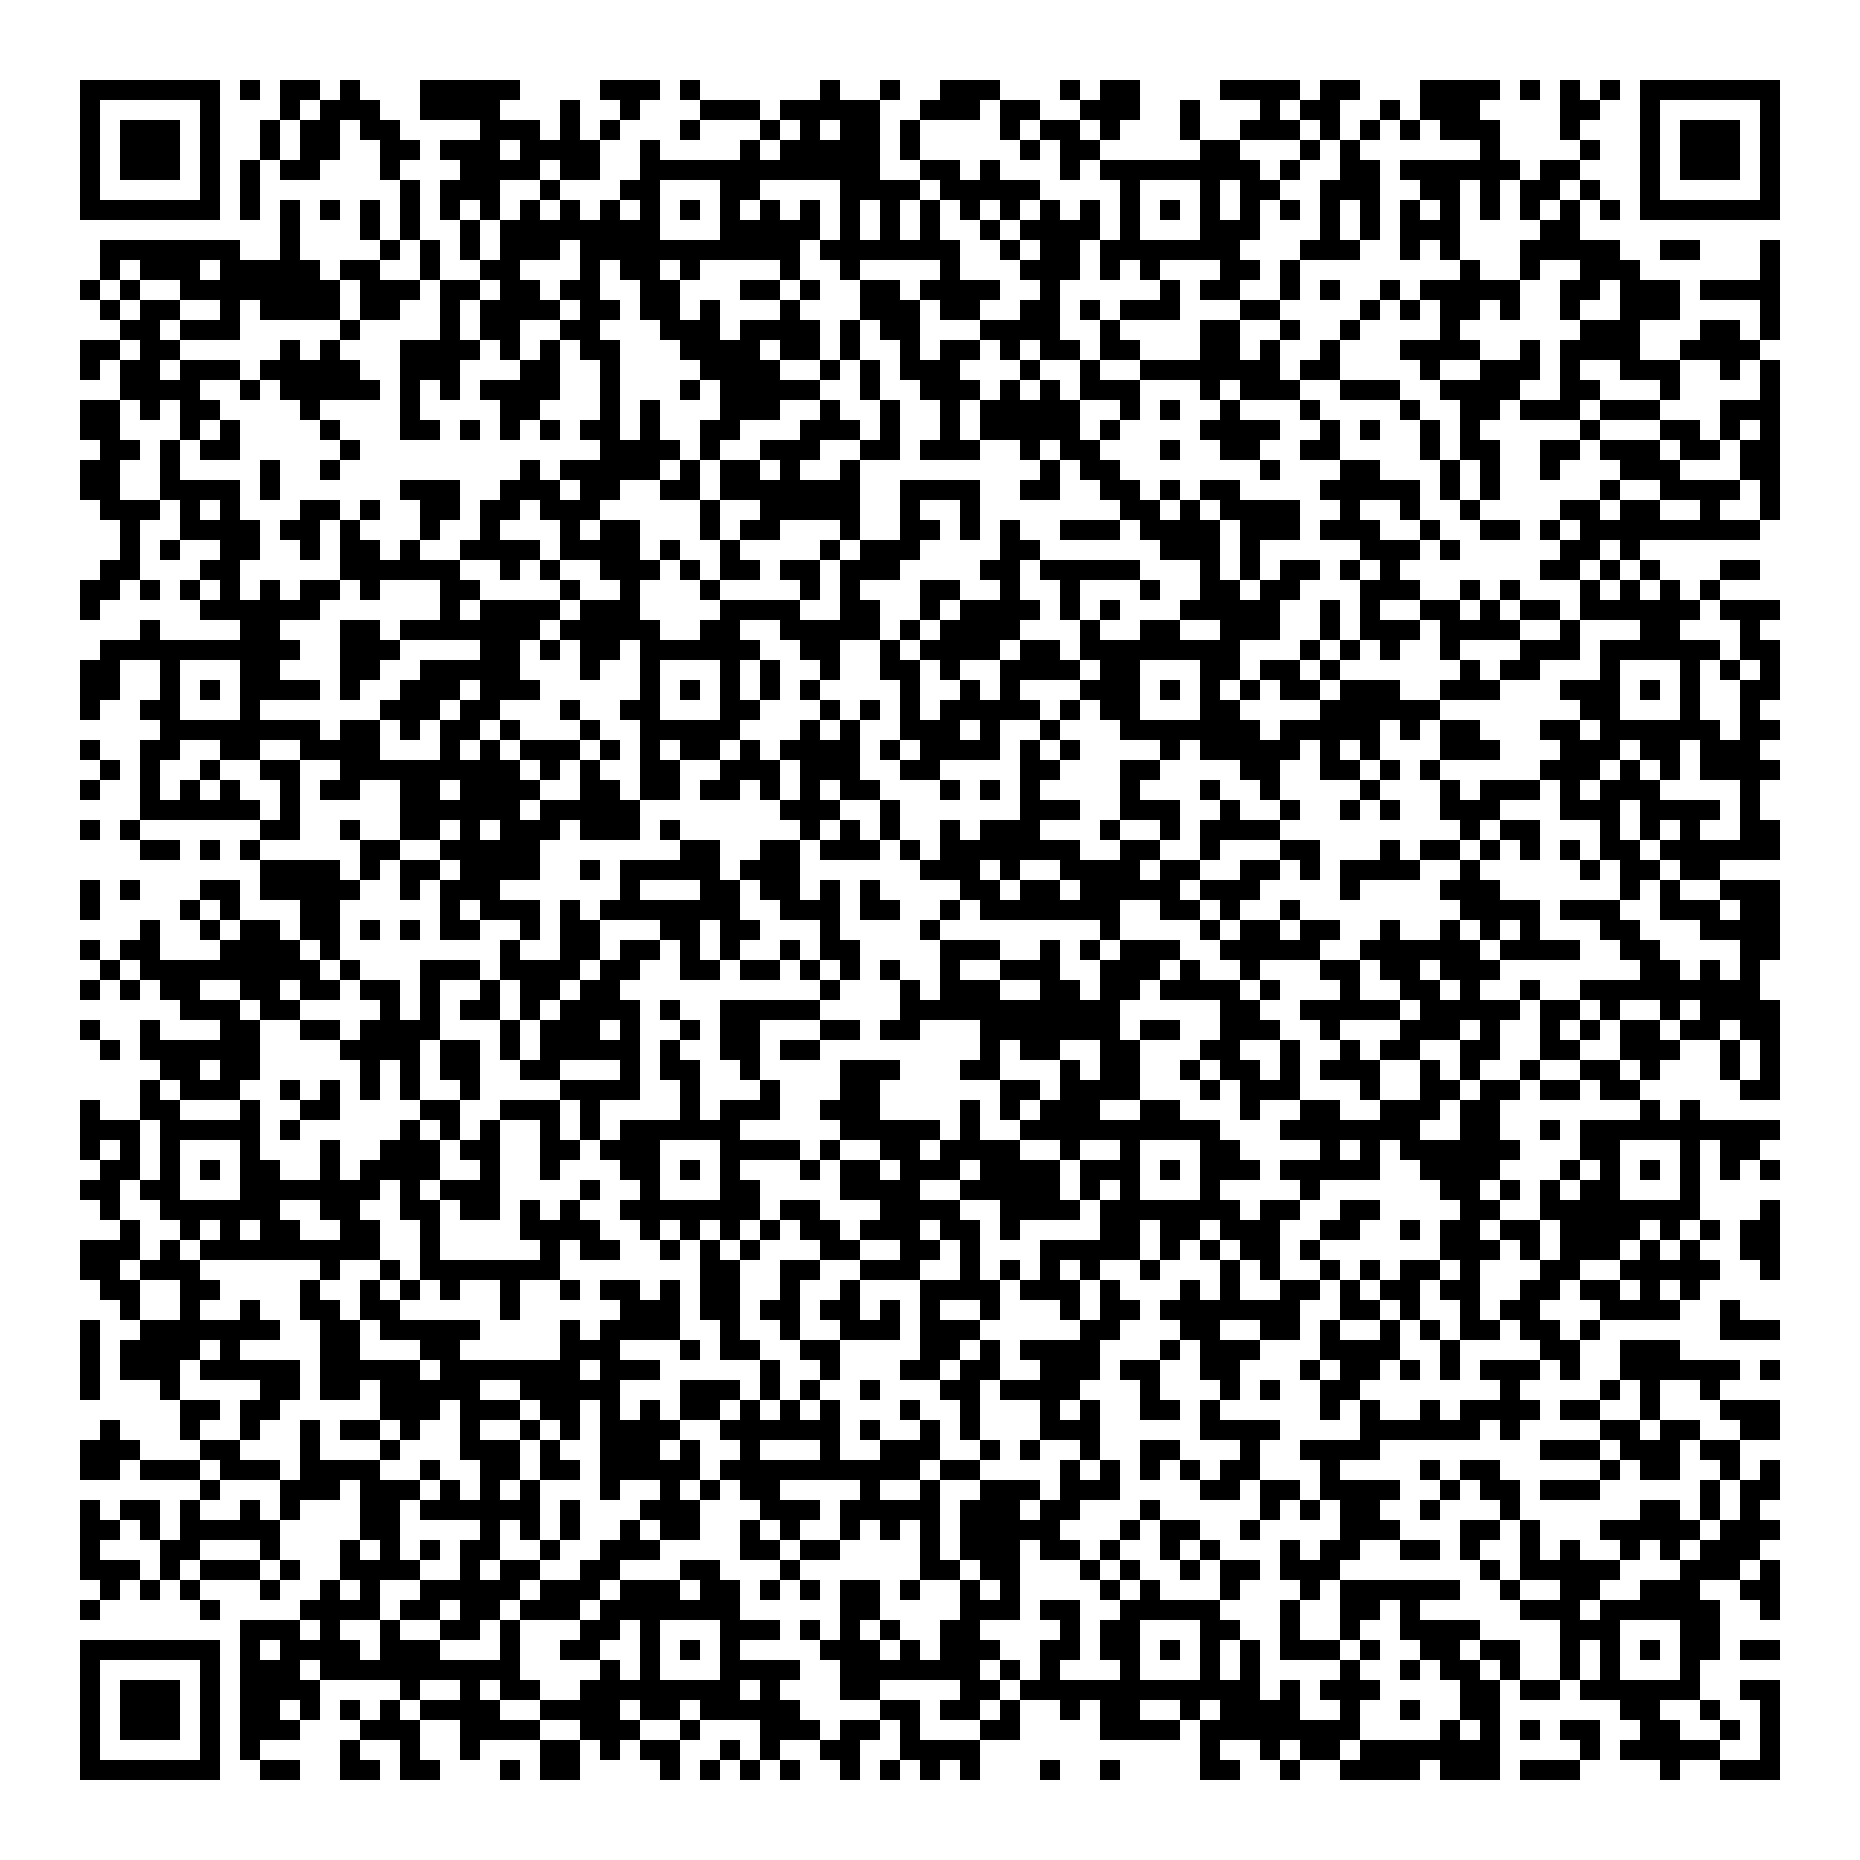
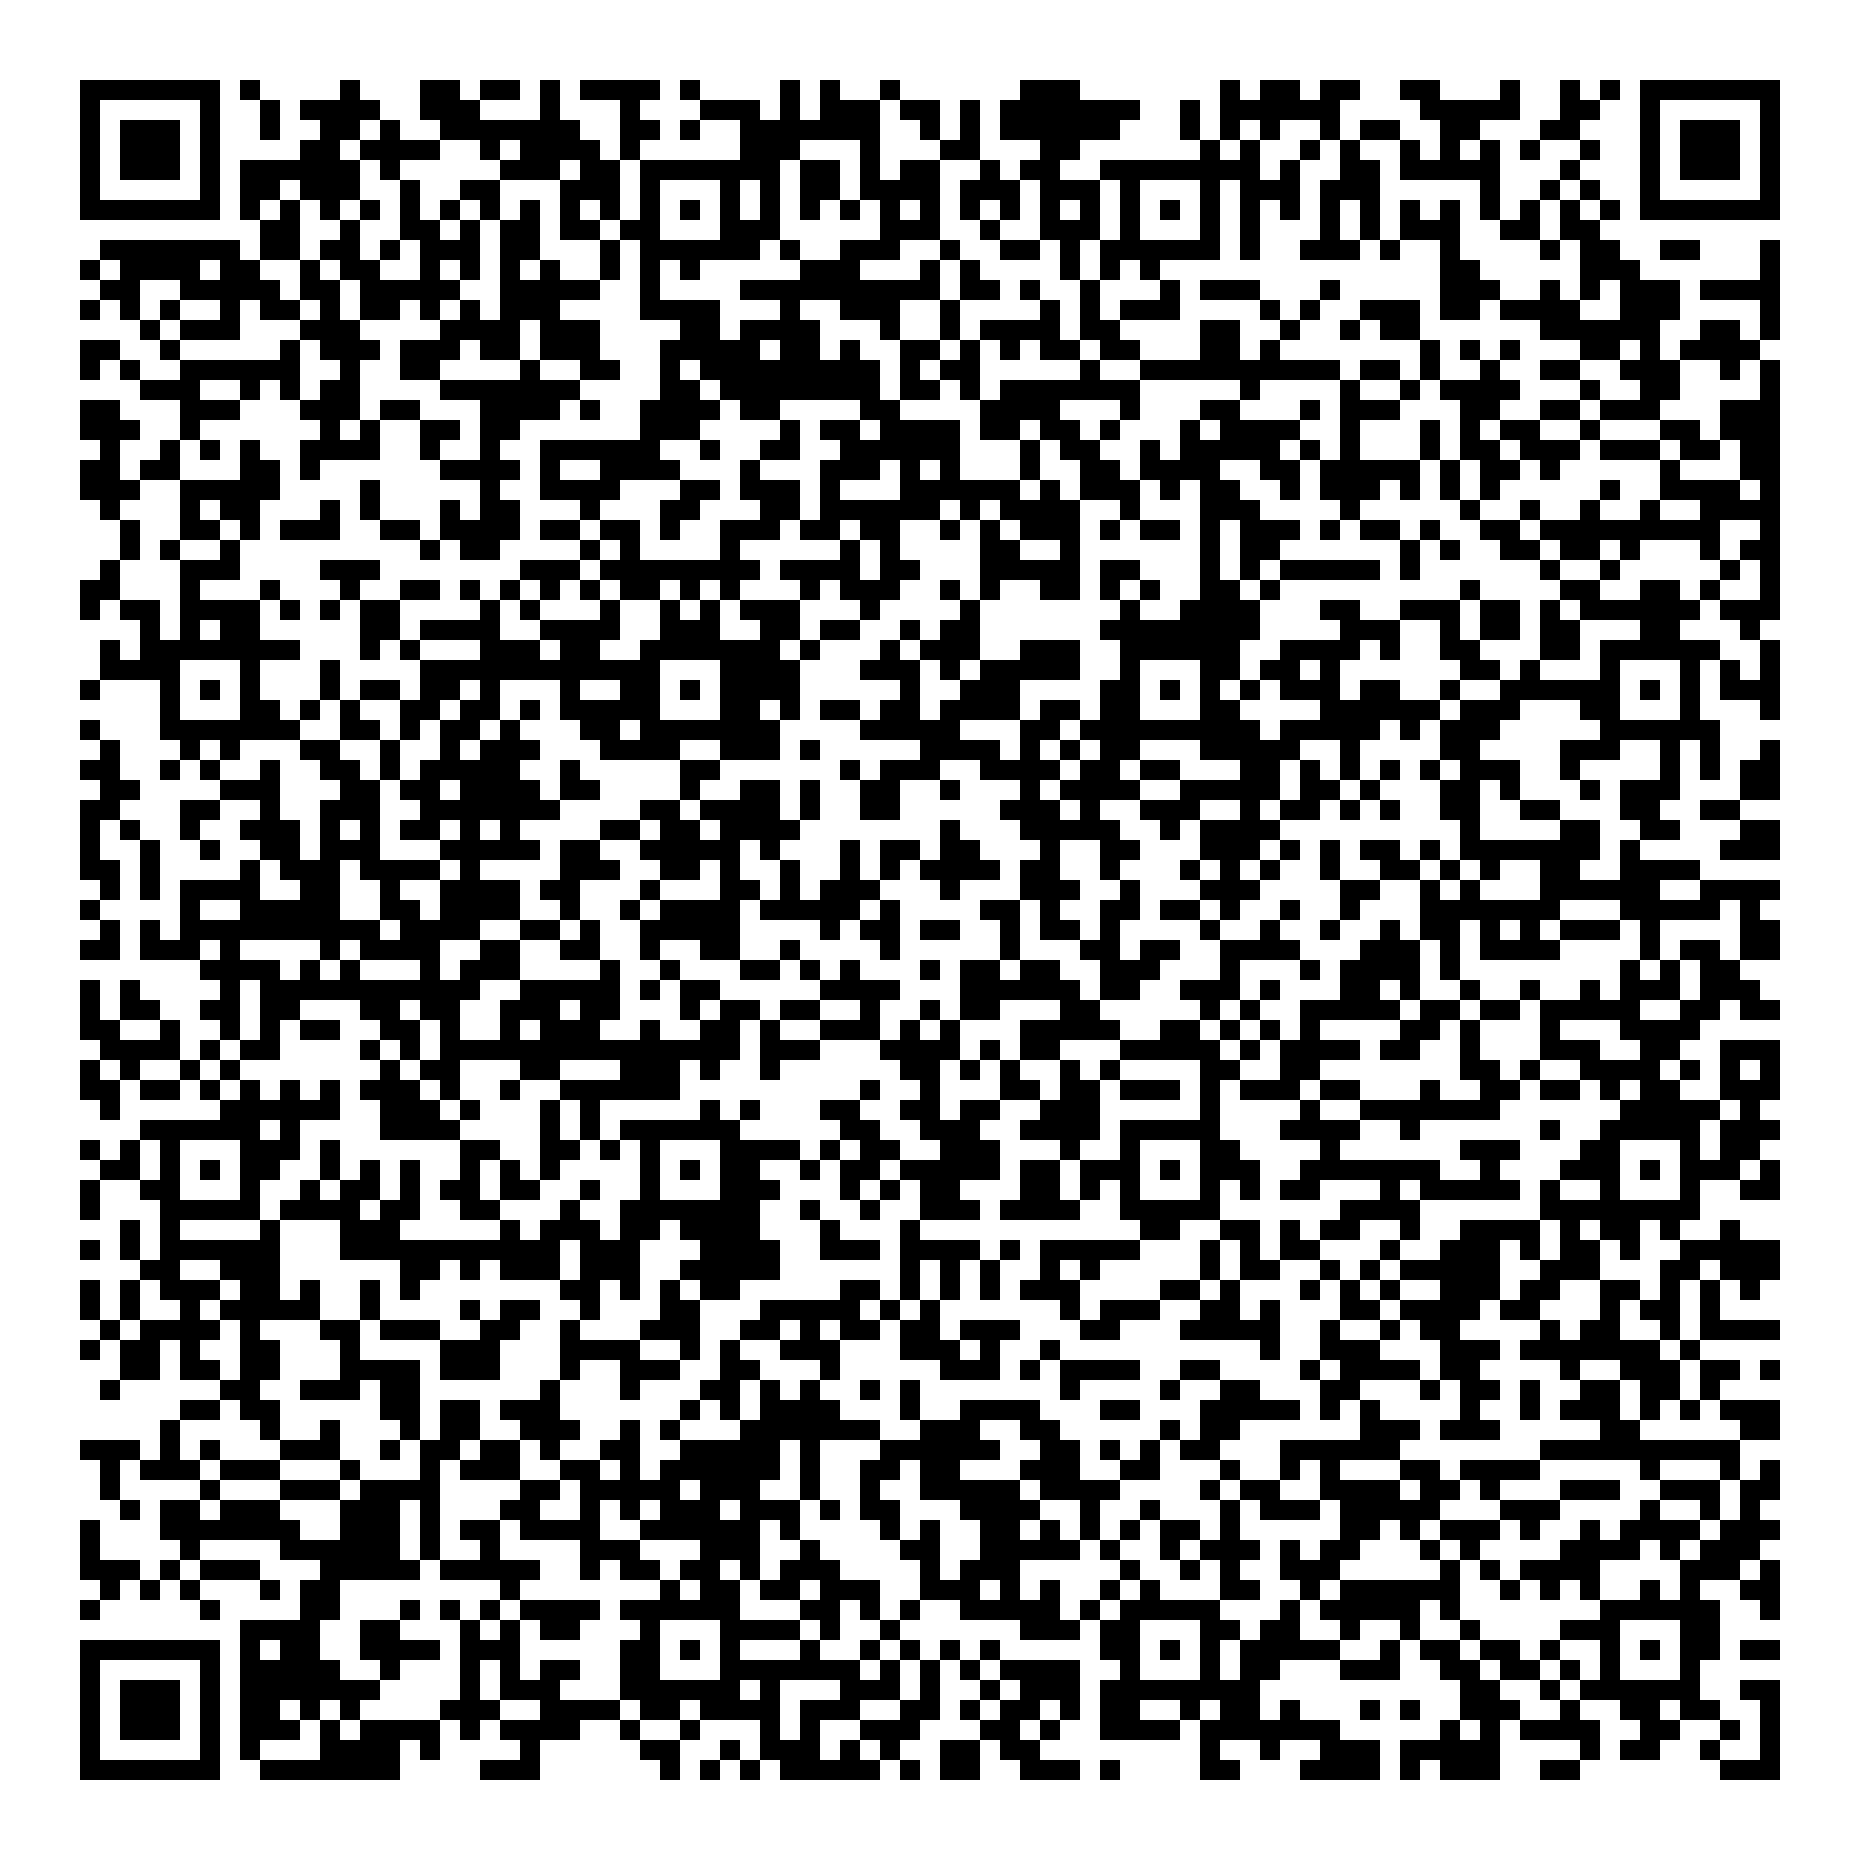
create user in  mock when with register

Changed region(s): [[0.0312, 0.0312, 0.9667, 0.9667], [0.8731, 0.9043, 0.9355, 0.9667]]

diff --git a/API_CRM/Controllers/ClientsController.cs b/API_CRM/Controllers/ClientsController.cs
@@ -2,6 +2,14 @@
 using API_ERP.Class;
 using Microsoft.AspNetCore.Http;
 using Microsoft.AspNetCore.Mvc;
+using Microsoft.Extensions.Configuration;
+using Microsoft.IdentityModel.Tokens;
+using QRCoder;
+using System.Drawing.Imaging;
+using System.Drawing;
+using System.IdentityModel.Tokens.Jwt;
+using System.Security.Claims;
+using System.Security.Cryptography;
 
 namespace API_CRM.Controllers
 {
@@ -9,10 +17,13 @@ namespace API_CRM.Controllers
     [ApiController]
     public class ClientsController : ControllerBase
     {
+        public static User user = new User();
         private readonly ICRMApiService _CRMApiService;
-        public ClientsController(ICRMApiService CRMApiService)
+        private readonly IConfiguration _configuration;
+        public ClientsController(ICRMApiService CRMApiService, IConfiguration configuration)
         {
             _CRMApiService = CRMApiService;
+            _configuration = configuration;
         }
         /// <summary>
         /// Get Client
@@ -92,6 +103,111 @@ namespace API_CRM.Controllers
                 return NotFound();
             }
             return Ok(customers);
+        }
+        [HttpPost("register")]
+        public async Task<ActionResult<User>> Register([FromBody] UserDto request)
+        {
+            CreatePasswordHash(request.Password, out byte[] passwordHash, out byte[] passwordSalt);
+            List<Customer> listCustomers = await _CRMApiService.GetCustomersAsync();
+            int lastCustomerId = listCustomers.Last().Id +1;
+            await _CRMApiService.AddCustomerAsync(new Customer
+            {
+                CreatedAt = DateTime.UtcNow,
+                Name = "string",
+                Username = "string",
+                FirstName = "string",
+                LastName = "string",
+                Address = new Address { PostalCode = "string", City = "string" },
+                Profile = new Profile { FirstName = "string", LastName = "string" },
+                Company = new Company { CompanyName = "string" },
+                Id = lastCustomerId,
+                Orders = new List<Order> {}
+            });
+
+            user.Id = lastCustomerId;
+            user.AdresseMail = request.AdresseMail;
+            user.PasswordHash = passwordHash;
+            user.PasswordSalt = passwordSalt;
+            return Ok(user);
+        }
+
+        [HttpPost("login")]
+        public async Task<ActionResult<string>> Login([FromBody] UserDto request)
+        {
+            if (user.AdresseMail != request.AdresseMail)
+            {
+                return BadRequest("User not found.");
+            }
+
+            if (!VerifyPasswordHash(request.Password, user.PasswordHash, user.PasswordSalt))
+            {
+                return BadRequest("erreur password.");
+            }
+
+            string token = CreateToken(user);
+            GenerateQRCode(token, "qrcode.png");
+            //SendEmailWithAttachment("pydima@gmail.com", "pydima@gmail.com", "QRCODE JWT", "testtt", "", "");
+
+            return Ok(new { token = token });
+        }
+
+
+        private string CreateToken(User user)
+        {
+            List<Claim> claims = new List<Claim>
+            {
+                new Claim("email", user.AdresseMail),
+                new Claim("id", user.Id.ToString()),
+                new Claim(ClaimTypes.Role, "Admin")
+            };
+
+            var key = new SymmetricSecurityKey(System.Text.Encoding.UTF8.GetBytes(
+                _configuration.GetSection("AppSettings:Token").Value));
+
+            var creds = new SigningCredentials(key, SecurityAlgorithms.HmacSha512Signature);
+
+            var token = new JwtSecurityToken(
+                claims: claims,
+                expires: DateTime.Now.AddDays(1),
+                signingCredentials: creds);
+
+            var jwt = new JwtSecurityTokenHandler().WriteToken(token);
+
+            return jwt;
+        }
+
+        private void CreatePasswordHash(string password, out byte[] passwordHash, out byte[] passwordSalt)
+        {
+            using (var hmac = new HMACSHA512())
+            {
+                passwordSalt = hmac.Key;
+                passwordHash = hmac.ComputeHash(System.Text.Encoding.UTF8.GetBytes(password));
+            }
+        }
+
+        private bool VerifyPasswordHash(string password, byte[] passwordHash, byte[] passwordSalt)
+        {
+            using (var hmac = new HMACSHA512(passwordSalt))
+            {
+                var computedHash = hmac.ComputeHash(System.Text.Encoding.UTF8.GetBytes(password));
+                return computedHash.SequenceEqual(passwordHash);
+            }
+        }
+
+        /// <summary>
+        /// Générer un QRCode
+        /// </summary>
+        /// <param name="data"></param>
+        /// <param name="fileName"></param>
+
+        public static void GenerateQRCode(string data, string fileName)
+        {
+            QRCodeGenerator qrGenerator = new QRCodeGenerator();
+            QRCodeData qrCodeData = qrGenerator.CreateQrCode(data, QRCodeGenerator.ECCLevel.Q);
+            QRCode qrCode = new QRCode(qrCodeData);
+            Bitmap qrCodeImage = qrCode.GetGraphic(20);
+
+            qrCodeImage.Save(fileName, ImageFormat.Png);
         }
     }
 }

diff --git a/API_CRM/Program.cs b/API_CRM/Program.cs
@@ -30,6 +30,7 @@ namespace API_CRM
                 string xmlPath = Path.Combine(AppContext.BaseDirectory, "Swagger.xml");
                 c.IncludeXmlComments(xmlPath);
             });
+            
             //builder.Services.AddSingleton<ICRMApiService>(new CRMApiService()); //Context API 
             builder.Services.AddSingleton<ICRMApiService>(new CRMContextMock()); //Context Mock
 
